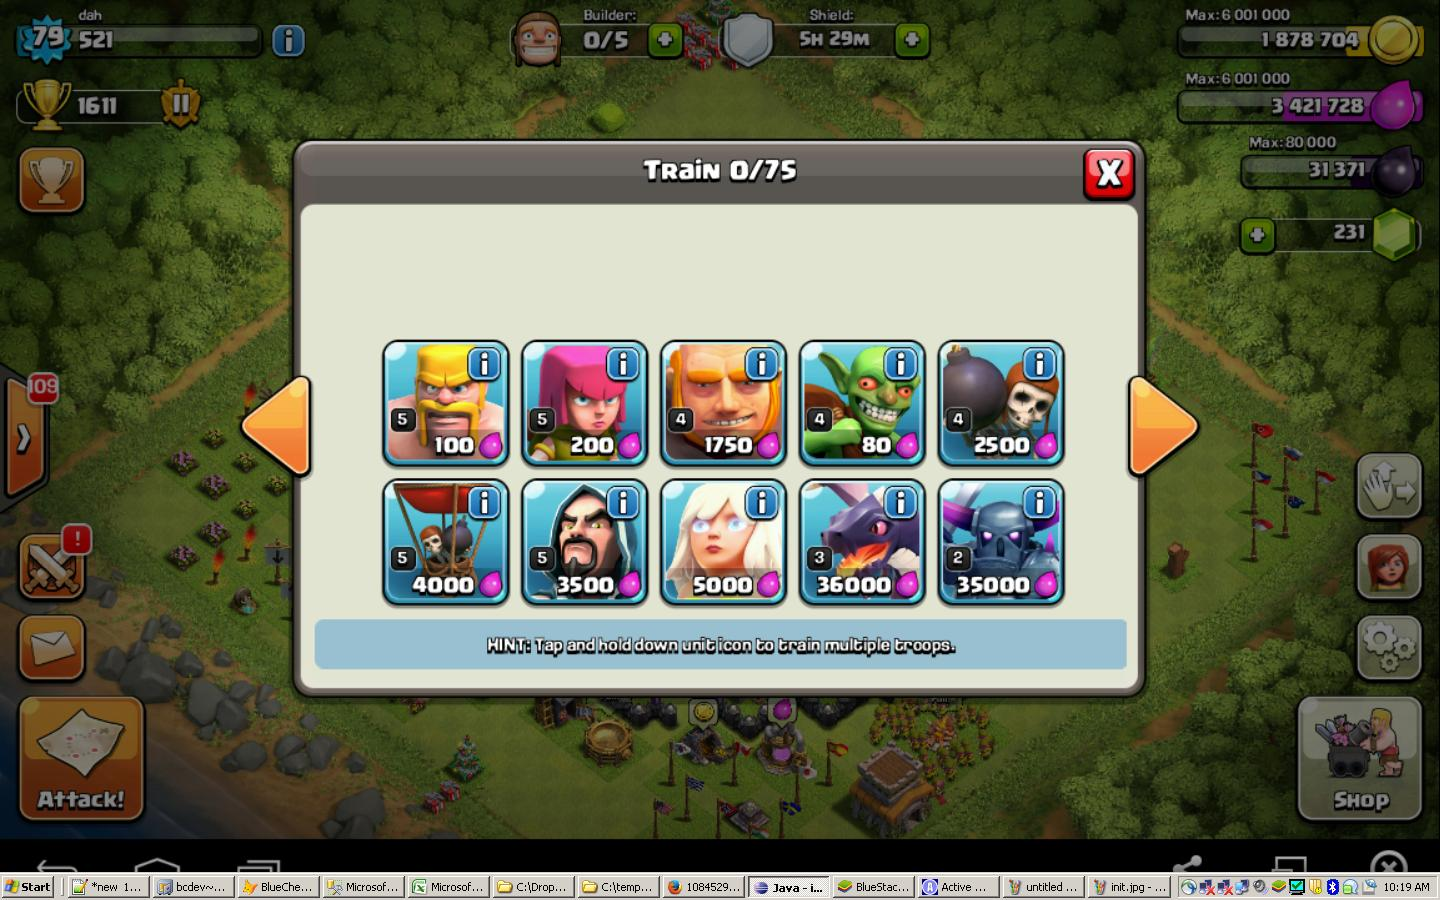
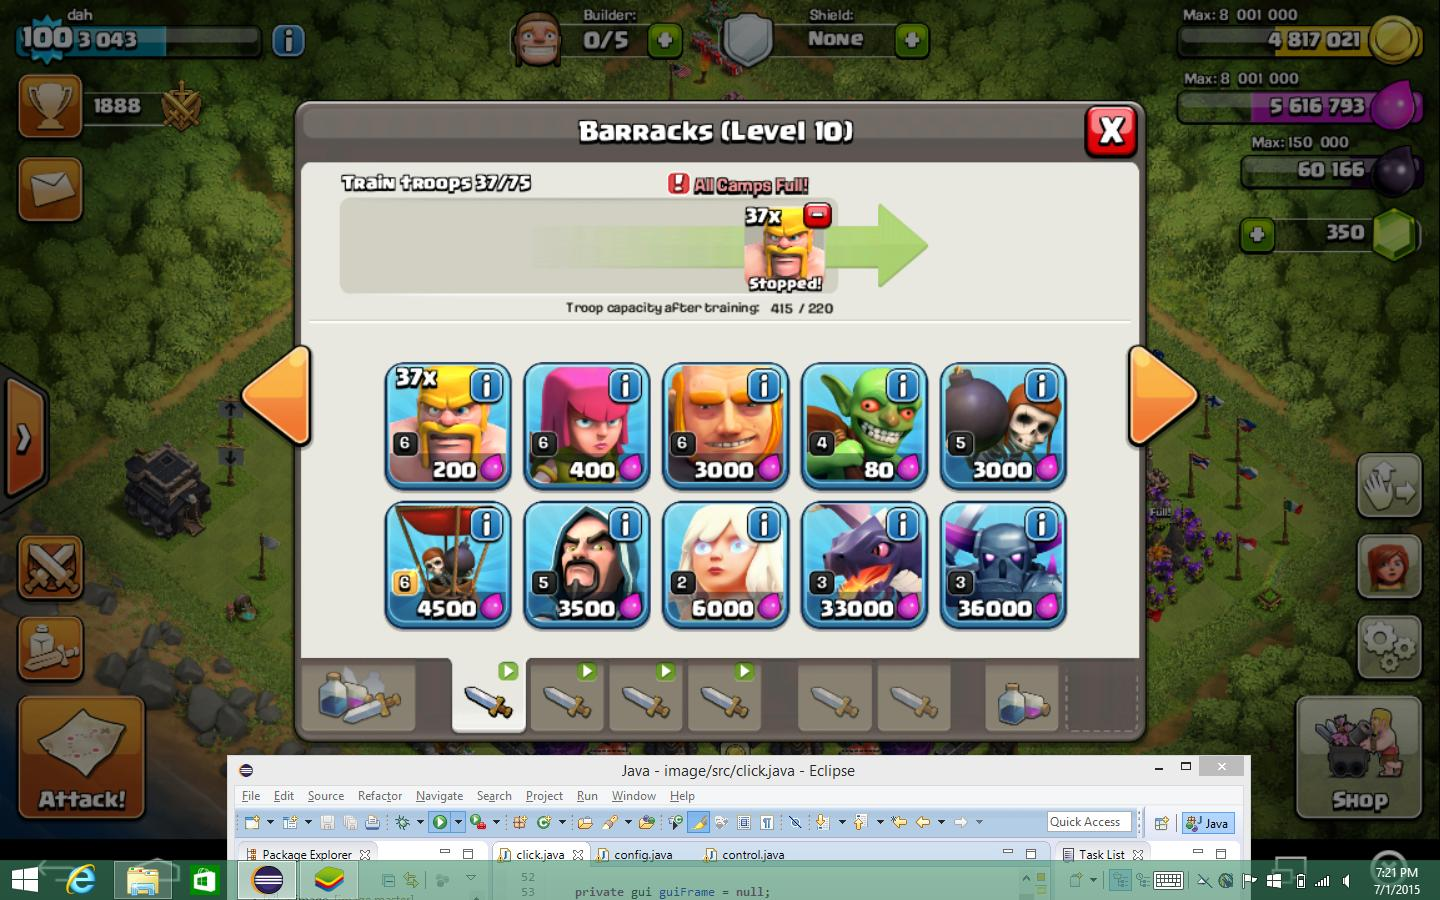
New update
-new position for barracks
-new position for Army Camp Full
-new y value for loot scanning
-new pos() value for barbs, archs (click next to next baracks)

diff --git a/src/setting/config.java b/src/setting/config.java
@@ -41,7 +41,8 @@ public class config
 			}
 			else if(name.equals("camp_full"))
 			{
-				s = new struct("camp_full",389,624, 186, 30, ruleFolder+"\\camp_full.jpg",pos);
+				//use barracks jpg different coordinate, match on All Camps Full!
+				s = new struct("camp_full",692,174, 122, 25, ruleFolder+"\\barracks.jpg",pos); 
 			}
 			else if(name.equals("camp"))
 			{
@@ -68,13 +69,13 @@ public class config
 				pos.add(new xy(505,297)); //click barracks
 				pos.add(new xy(859,712)); //click train
 				
-				// match on: Hint: Tap and hold down unit icon to train multiple troops.
-				s = new struct("barracks",	481, 632, 482, 33, ruleFolder+"\\barracks.jpg",pos);				
+				// match on: "Barracks" (level ...)
+				s = new struct("barracks",	573, 117, 144, 32, ruleFolder+"\\barracks.jpg",pos);				
 			}
 			else if(name.equals("battle")){
 				
 				pos.add(new xy(1316,612)); //click next
-				s = new struct("battle",35, 628, 115, 25, ruleFolder+"\\battle.jpg",pos);	
+				s = new struct("battle",31, 648, 121, 28, ruleFolder+"\\battle.jpg",pos);	//match on end battle
 			}
 			else if(name.equals("end")){
 				pos.add(new xy(718,686)); //click return home			
@@ -104,14 +105,14 @@ public class config
 			else if(name.equals("barbs"))
 			{
 				pos.add(new xy(450,400)); // position of barb in camp
-				pos.add(new xy(1159,430)); // next button
+				pos.add(new xy(1159,398)); // next button
 				pos.add(new xy(254,764)); // position in battle screen
 				s = new struct("barbs",221,698,55, 68, ruleFolder+"\\barbs.jpg",pos); 
 			}
 			else if(name.equals("archs"))
 			{
 				pos.add(new xy(590,408)); // position of archs in camp
-				pos.add(new xy(1159,430)); // next button
+				pos.add(new xy(1159,398)); // next button
 				pos.add(new xy(344,750)); // position in battle screen
 				s = new struct("archs",317,701, 54, 59, ruleFolder+"\\archs.jpg",pos); 
 			}

diff --git a/src/click.java b/src/click.java
@@ -58,23 +58,24 @@ public class click
 	StopWatch s = new StopWatch();
 	public click() throws Exception
 	{
-		//log.info("in MAIN? "+ inMain());
-		//System.exit(0);
-		
 	
-		//String s= "C:\\Dropbox\\Workspace\\image\\loot\\" ;
 		
-		/*
-		 
-		String s = "C:\\Users\\CGS\\bot\\image\\loot\\";
-		String n = "current.jpg";
-		saveLootParent(s,n);
-	
-		System.exit(0);
-		*/
 		RunEmailService();		
 		setGUIandControl();
-			
+		
+		/*
+		BufferedImage screencapture =cont.createScreenCapture(new Rectangle(Toolkit.getDefaultToolkit().getScreenSize()));
+		String name = "current.jpg";
+		File outputFile = new File(name);
+        ImageIO.write(screencapture, "jpg", outputFile);	
+        
+        
+        System.out.println(inBattle(true));
+		System.exit(0);
+		
+		
+		saveLootParent("C:\\Users\\shami_000\\Documents\\GitHub\\image\\rule\\", "current.jpg");
+        */
 		
 		
 		while(true)

diff --git a/src/ImageParser.java b/src/ImageParser.java
@@ -44,7 +44,7 @@ public class ImageParser
 	{
 		int x1 = 0;
 		int x2 = 0;
-		int y= 4;  //de = 5, g = 4
+		int y= 6;  // this value can change
 		String ret= "";
 		
 		boolean out=false;
